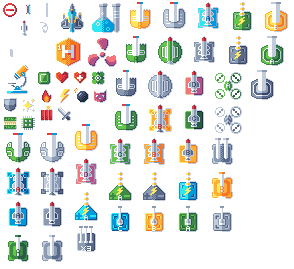
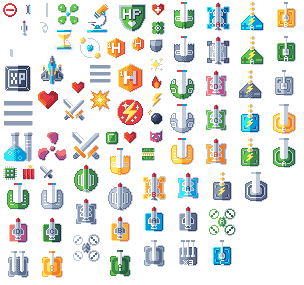
Prototype

diff --git a/packages/client/src/ui/ShipInfoPanel.tsx b/packages/client/src/ui/ShipInfoPanel.tsx
@@ -28,7 +28,6 @@ import { refreshOnTypedEvent } from "../utils/Hook";
 import { showModal } from "../utils/ToggleModal";
 import { HamburgerMenuComp } from "./components/HamburgerMenuComp";
 import { RenderHTML } from "./components/RenderHTMLComp";
-import { XPIcon } from "./components/SVGIcons";
 import { TextureComp } from "./components/TextureComp";
 import { PrepareForBattleModal } from "./PrepareForBattleModal";
 import { PrepareForBattleMode } from "./PrepareForBattleMode";
@@ -84,7 +83,7 @@ export function ShipInfoPanel(): React.ReactNode {
                </>
             }
             multiline
-            maw="30vw"
+            maw="25vw"
          >
             <div
                className="block pointer"
@@ -96,15 +95,13 @@ export function ShipInfoPanel(): React.ReactNode {
                   });
                }}
             >
-               <div style={{ fontSize: 26 }} className={classNames("mi", highlight ? "breathing" : null)}>
-                  swords
-               </div>
+               <TextureComp name="Others/Battle24" />
             </div>
          </Tooltip>
          <div className="divider vertical" />
-         <Tooltip multiline maw="30vw" label={<RenderHTML html={t(L.XPTooltipHTMLV2, formatNumber(availableXP))} />}>
-            <div className="block" style={{ width: 85 }}>
-               <XPIcon />
+         <Tooltip multiline maw="25vw" label={<RenderHTML html={t(L.XPTooltipHTMLV2, formatNumber(availableXP))} />}>
+            <div className="block" style={{ width: 100 }}>
+               <TextureComp name="Others/XP24" />
                <div className="f1 text-right">
                   <div>{formatNumber(availableXP)}</div>
                   <div
@@ -122,7 +119,7 @@ export function ShipInfoPanel(): React.ReactNode {
          <div className="divider vertical" />
          <Tooltip
             multiline
-            maw="30vw"
+            maw="25vw"
             label={
                <RenderHTML
                   html={t(
@@ -135,8 +132,7 @@ export function ShipInfoPanel(): React.ReactNode {
             }
          >
             <div className="block" style={{ width: 85 }}>
-               <div className="mi">security</div>
-               <TextureComp name="Others/HP" />
+               <TextureComp name="Others/HP24" />
                <div className="f1 text-right">
                   <div>{formatNumber(G.runtime.leftStat.maxHp)}</div>
                   <div className="xs">
@@ -148,11 +144,11 @@ export function ShipInfoPanel(): React.ReactNode {
          <div className="divider vertical" />
          <Tooltip
             multiline
-            maw="30vw"
+            maw="25vw"
             label={<RenderHTML html={t(L.RawActualDPSHTML, formatNumber(actualDPS), formatNumber(rawDPS))} />}
          >
             <div className="block" style={{ width: 85 }}>
-               <div className="mi">explosion</div>
+               <TextureComp name="Others/Damage24" />
                <div className="f1 text-right">
                   <div>{formatNumber(actualDPS)}</div>
                   <div className="xs">{formatNumber(rawDPS)}</div>
@@ -173,9 +169,7 @@ export function ShipInfoPanel(): React.ReactNode {
                   });
                }}
             >
-               <div className="mi" id="ship-info-quantum">
-                  orbit
-               </div>
+               <TextureComp name="Others/Quantum24" />
                <div className="f1 text-right">
                   <div>
                      {formatNumber(usedQuantum)}/{formatNumber(quantum)}
@@ -210,7 +204,7 @@ export function ShipInfoPanel(): React.ReactNode {
                   });
                }}
             >
-               <TextureComp name="Others/Element" style={{ margin: "5px 0" }} />
+               <TextureComp name="Others/Element24" />
                <div className="w5" />
                <div className="f1 text-right">
                   <div>

diff --git a/packages/client/src/ui/components/AttackComp.tsx b/packages/client/src/ui/components/AttackComp.tsx
@@ -91,7 +91,7 @@ export function AttackComp({ tile, gs }: ITileWithGameState): React.ReactNode {
             {hasFlag(rs.props.projectileFlag, ProjectileFlag.LaserDamage) ? (
                <div className="row">
                   <div className="f1">{t(L.LaserProjectile)}</div>
-                  <Tooltip label={<RenderHTML html={t(L.LaserProjectileDesc)} />} multiline maw="30vw">
+                  <Tooltip label={<RenderHTML html={t(L.LaserProjectileDesc)} />} multiline maw="25vw">
                      <div className="mi">info</div>
                   </Tooltip>
                </div>
@@ -99,7 +99,7 @@ export function AttackComp({ tile, gs }: ITileWithGameState): React.ReactNode {
             {hasFlag(rs.props.projectileFlag, ProjectileFlag.DroneDamage) ? (
                <div className="row">
                   <div className="f1">{t(L.DroneProjectile)}</div>
-                  <Tooltip label={<RenderHTML html={t(L.DroneProjectileDesc)} />} multiline maw="30vw">
+                  <Tooltip label={<RenderHTML html={t(L.DroneProjectileDesc)} />} multiline maw="25vw">
                      <div className="mi">info</div>
                   </Tooltip>
                </div>

diff --git a/packages/shared/src/languages/en.ts b/packages/shared/src/languages/en.ts
@@ -722,7 +722,7 @@ export const EN = {
    TimeUntilNextElement: "Time Until Next Element",
    XPTooltipHTMLV2: "Available XP: %%<br><small>Weapons generate XP when firing. XP can be used to build and upgrade weapons</small>",
    HPTooltipHTML: "Total HP: %%<br>Used Modules: %%, Total Modules: %%<br>",
-   RawActualDPSHTML: "Actual DPS: %%<br>Raw DPS: %%<br><small>Actual DPS is Raw DPS after armor, shield, deflection and evasion deduction</small>",
+   RawActualDPSHTML: "Actual DPS: %%<br>Raw DPS: %%<br><small>Actual DPS = Raw DPS after Armor (Kinetic), Shield (Explosive), Deflection (Energy) and Evasion (All) reduction</small>",
    QuantumTooltipHTMLV2: "Used Quantum: %%, Total Quantum: %%<br>Progress Towards Next Quantum: %%<br>Time Until Next Quantum: %%<br><small></small>",
    TimeWarpTooltipHTML: "Warp Speed: %%x<br>Available Time Warp: %%<br><small>Time Warp can be used to speed up game. It is generated when you are offline</small>",
    XClassLeague: "%% Class League",

diff --git a/packages/client/src/ui/components/HamburgerMenuComp.tsx b/packages/client/src/ui/components/HamburgerMenuComp.tsx
@@ -11,16 +11,15 @@ import { GameSettingsModal } from "../GameSettingsModal";
 import { PlayerProfileModal } from "../PlayerProfileModal";
 import { ShipGalleryModal } from "../ShipGalleryModal";
 import { WeaponListModal } from "../WeaponListModal";
+import { TextureComp } from "./TextureComp";
 
 export function _HamburgerMenuComp({ flag }: { flag: GameOptionFlag }): React.ReactNode {
    refreshOnTypedEvent(OnLanguageChanged);
    return (
       <Menu position="bottom-start">
          <Menu.Target>
-            <div className="cc pointer" style={{ width: 36, height: 36 }}>
-               <div className="mi" style={{ fontSize: 26 }}>
-                  menu
-               </div>
+            <div className="cc pointer" style={{ width: 44 }}>
+               <TextureComp name="Others/Menu24" />
             </div>
          </Menu.Target>
          <Menu.Dropdown className="sf-frame">

diff --git a/packages/client/src/ui/WarpSpeedMenuComp.tsx b/packages/client/src/ui/WarpSpeedMenuComp.tsx
@@ -18,7 +18,7 @@ export function WarpSpeedMenuComp({ gs }: { gs: GameState }): React.ReactNode {
          <Menu.Target>
             <Tooltip
                multiline
-               maw="30vw"
+               maw="25vw"
                label={
                   <RenderHTML
                      html={t(L.TimeWarpTooltipHTML, formatNumber(G.speed), formatNumber(gs.resources.get("Warp") ?? 0))}
@@ -30,7 +30,7 @@ export function WarpSpeedMenuComp({ gs }: { gs: GameState }): React.ReactNode {
                      id="ship-info-warp"
                      className={classNames(G.speed > 1 ? "spin" : null)}
                      style={{ animationDuration: `${8 / G.speed}s` }}
-                     name="Misc/TimeWarp"
+                     name="Others/Warp"
                      width={24}
                   />
                   <div className="f1 text-right">

diff --git a/packages/client/src/ui/BottomPanel.tsx b/packages/client/src/ui/BottomPanel.tsx
@@ -117,7 +117,7 @@ function Tutorial(): React.ReactNode {
                </>
             }
             multiline
-            maw="30vw"
+            maw="25vw"
          >
             <div className="f1 text-sm" style={{ overflow: "hidden" }}>
                <div className="row">
@@ -248,7 +248,7 @@ function ElementTabLabel(): React.ReactNode {
    refreshOnTypedEvent(GameStateUpdated);
    if (hasUnassignedElements(G.save.current)) {
       return (
-         <Tooltip multiline maw="30vw" label={t(L.YouHaveUnassignedElementTooltip)}>
+         <Tooltip multiline maw="25vw" label={t(L.YouHaveUnassignedElementTooltip)}>
             <Indicator color="red" processing>
                <TextureComp name="Others/Element" />
             </Indicator>

diff --git a/packages/client/src/ui/BoosterFullScreen.tsx b/packages/client/src/ui/BoosterFullScreen.tsx
@@ -44,7 +44,7 @@ export function BoosterFullScreen(): React.ReactNode {
                                        <div className="f1" />
                                        <div>{amount}</div>
                                     </div>
-                                    <Tooltip multiline maw="30vw" label={<RenderHTML html={def.desc(effect)} />}>
+                                    <Tooltip multiline maw="25vw" label={<RenderHTML html={def.desc(effect)} />}>
                                        <div className="row text-sm text-dimmed stretch">
                                           <div>{t(L.Effect)}</div>
                                           <div className="f1" />

diff --git a/packages/client/src/ui/TutorialProgressModal.tsx b/packages/client/src/ui/TutorialProgressModal.tsx
@@ -28,7 +28,7 @@ export function TutorialProgressModal(): React.ReactNode {
                         <div className="mi fstart">circle</div>
                      )}
                      <div className="f1">
-                        <Tooltip label={<RenderHTML html={step.desc()} />} multiline maw="30vw">
+                        <Tooltip label={<RenderHTML html={step.desc()} />} multiline maw="25vw">
                            <div className={classNames(active ? "text-space" : null)}>{step.name()}</div>
                         </Tooltip>
                         {active ? (

diff --git a/packages/client/src/ui/CatalystFullScreen.tsx b/packages/client/src/ui/CatalystFullScreen.tsx
@@ -100,7 +100,7 @@ export function CatalystFullScreen(): React.ReactNode {
                               {canChooseCatalystCat(cat, G.runtime) ? (
                                  <Tooltip
                                     multiline
-                                    maw="30vw"
+                                    maw="25vw"
                                     label={<RenderHTML html={t(L.SelectCatalystTooltipHTML)} />}
                                  >
                                     <div

diff --git a/packages/client/src/ui/components/UpgradeComp.tsx b/packages/client/src/ui/components/UpgradeComp.tsx
@@ -164,7 +164,7 @@ export function UpgradeComp({ tile, gs }: ITileWithGameState): React.ReactNode {
                   <TextureComp name={`Booster/${booster}`} />
                   <Tooltip
                      multiline
-                     maw="30vw"
+                     maw="25vw"
                      label={
                         <RenderHTML
                            html={Boosters[booster].desc(G.save.current.boosters.get(booster)?.amount ?? 0)}

diff --git a/packages/client/src/ui/MatchmakingModal.tsx b/packages/client/src/ui/MatchmakingModal.tsx
@@ -48,7 +48,7 @@ export function MatchMakingModal({ enemy }: { enemy: GameState }): React.ReactNo
          <Tooltip
             disabled={isQualifierBattle(G.save.current)}
             multiline
-            maw="30vw"
+            maw="25vw"
             label={
                <RenderHTML
                   html={t(L.QualifierBattleRequirementHTML, quantumLimit, formatNumber(quantumToXP(quantumLimit)))}

diff --git a/packages/client/src/ui/MatchmakingShipComp.tsx b/packages/client/src/ui/MatchmakingShipComp.tsx
@@ -32,7 +32,7 @@ export function MatchmakingShipComp({ ship }: { ship: GameState }): React.ReactN
             <div>{ship.unlockedTech.size}</div>
             <Tooltip
                multiline
-               maw="30vw"
+               maw="25vw"
                label={Array.from(ship.unlockedTech)
                   .map((tech) => getTechName(tech))
                   .join(", ")}
